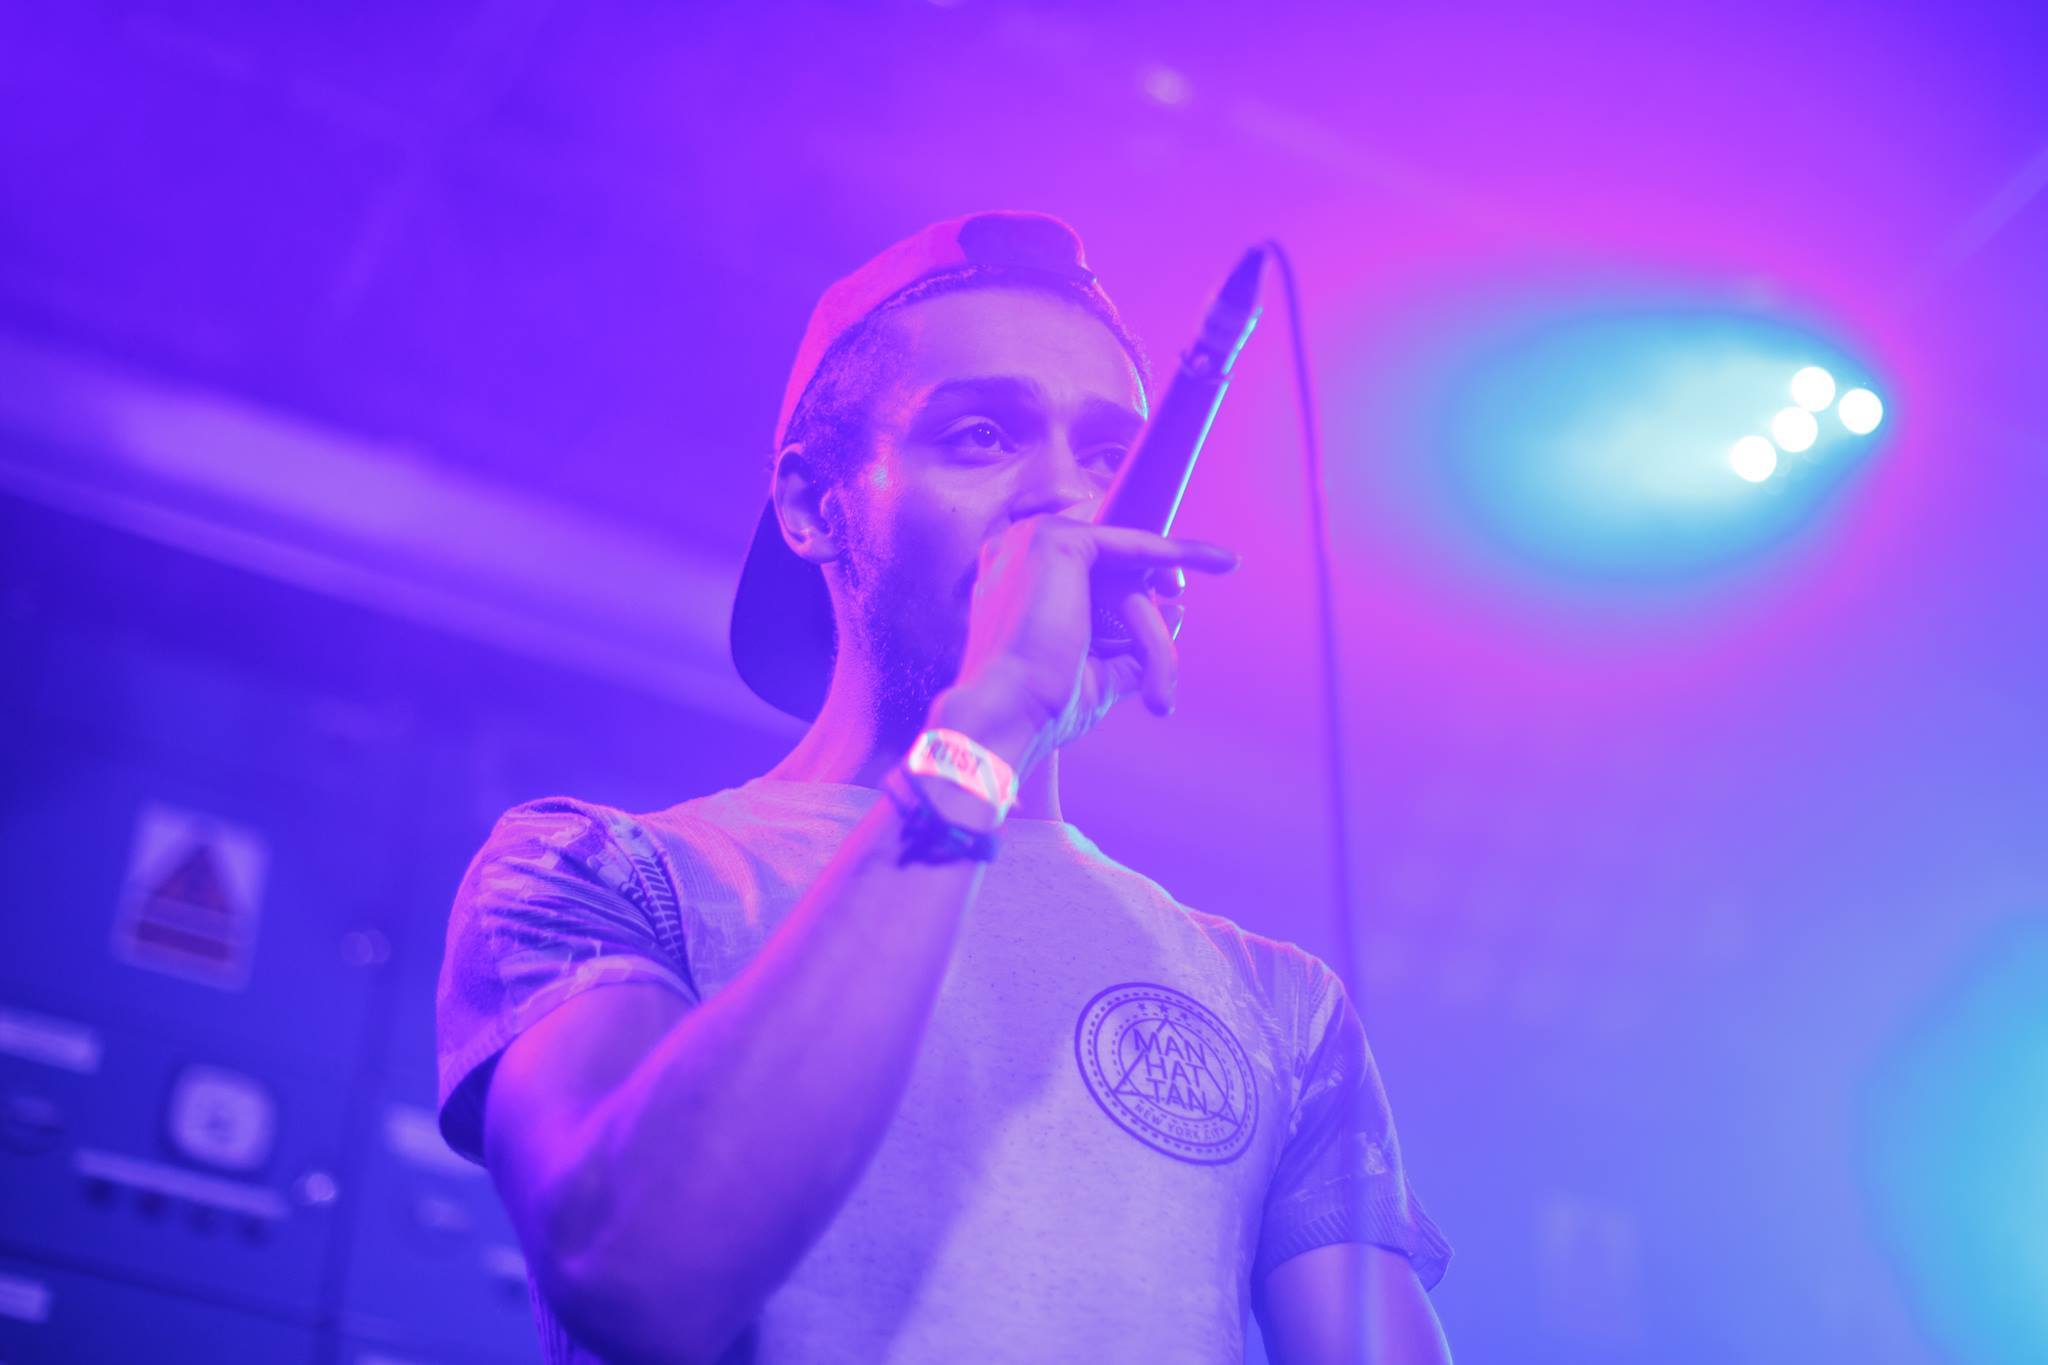
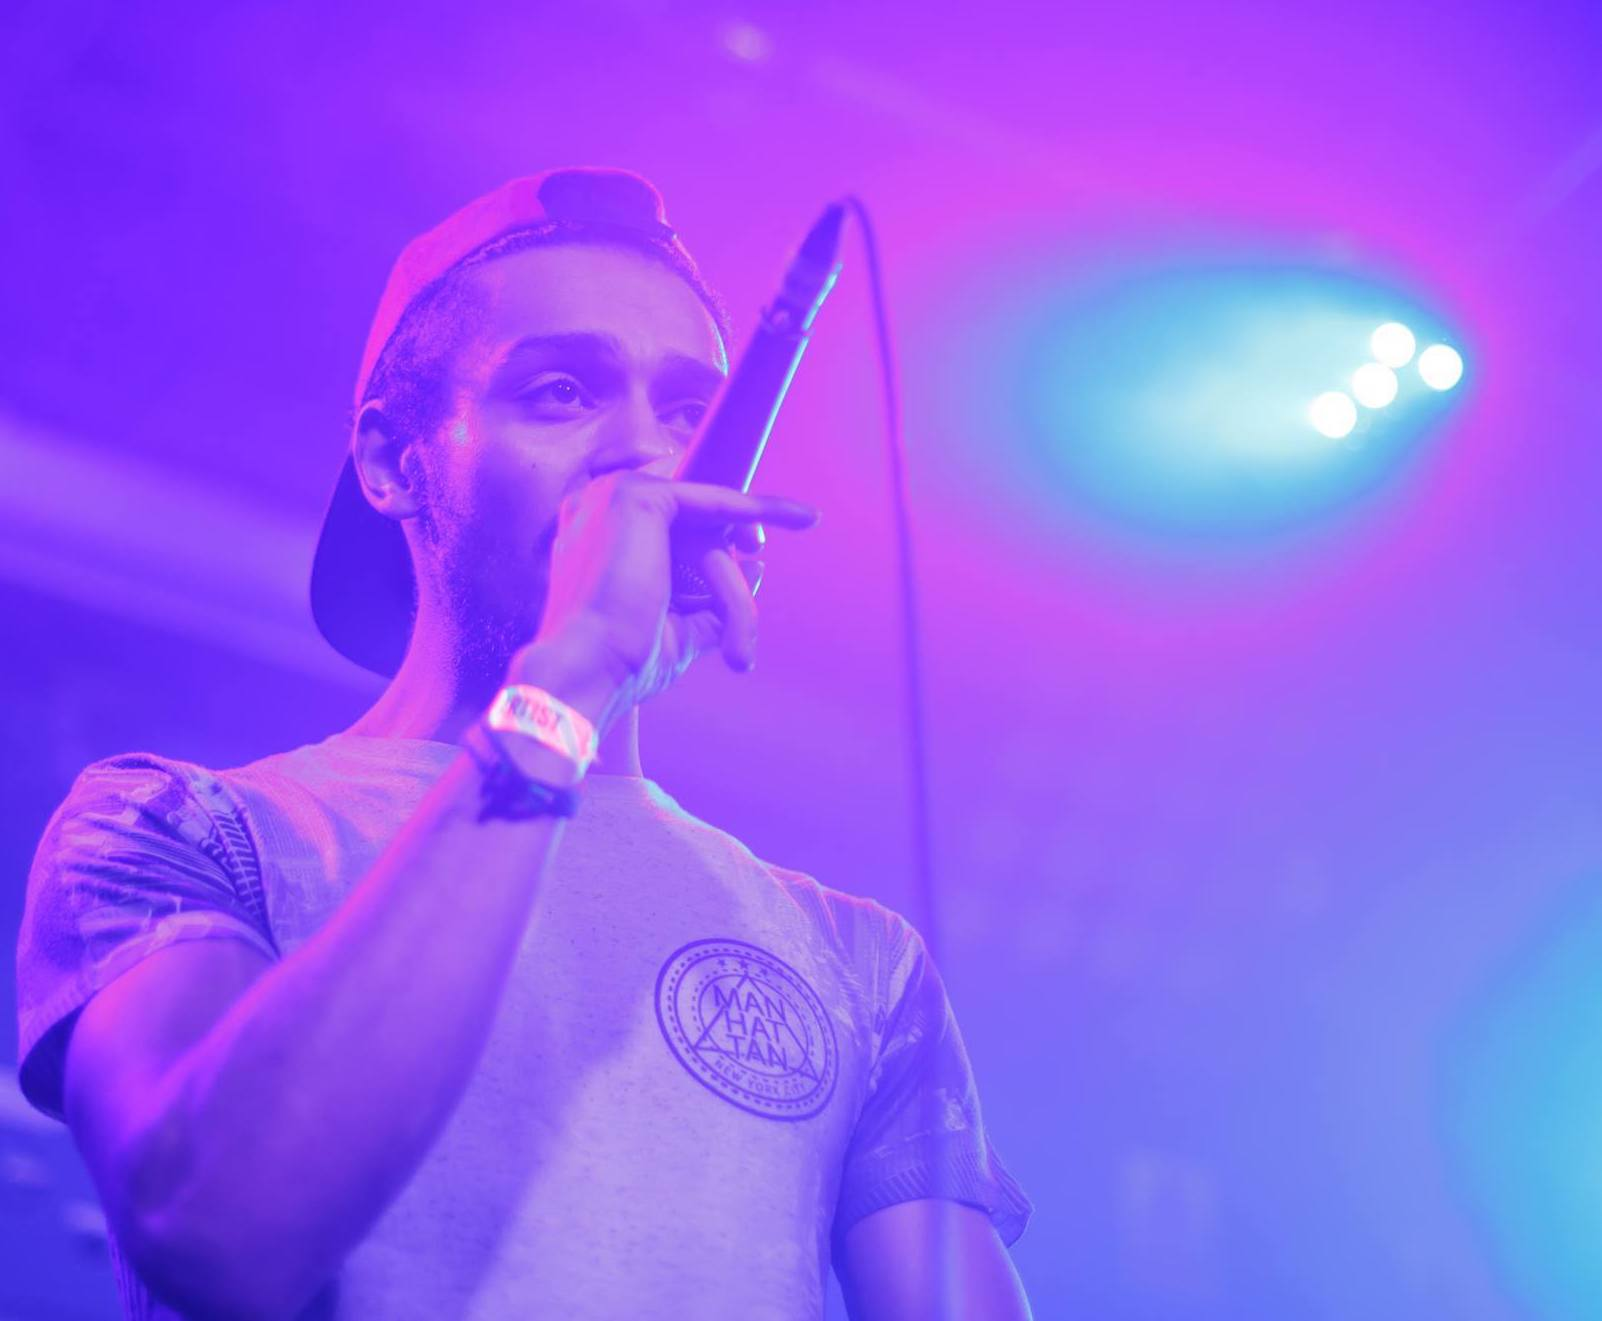
feat add images to gallery and begin buttons

diff --git a/index.html b/index.html
@@ -329,7 +329,20 @@
         </p>
       </div>
     </section>
-    <section class="gallery" id="section-gallery"></section>
+    <section class="gallery" id="section-gallery">
+      <div class="image-container">
+        <i class="fa-solid fa-chevron-left img-nav" id="img-prev"></i>
+        <i class="fa-solid fa-chevron-right img-nav" id="img-next"></i>
+        <img src="assets/img/all-out.jpeg" alt="">
+        <img src="assets/img/mic-artist.jpeg" alt="" class="hidden">
+        <img src="assets/img/phoenixx-backcap.jpeg" alt="" class="hidden">
+        <img src="assets/img/phoenixx-in-purple.jpeg" alt="" class="hidden">
+        <img src="assets/img/phoenixx-nahda.jpeg" alt="" class="hidden">
+        <img src="assets/img/phoenixx-purple-heaven.jpeg" alt="" class="hidden">
+        <img src="assets/img/phoenixx-stage-guitar.jpeg" alt="" class="hidden">
+        <img src="assets/img/phoenixx-smile.png" alt="" class="hidden">
+      </div>
+    </section>
     <section class="connect" id="section-connect">
       <h2 id="connect-title">Want to Get in Touch?</h2>
       <div id="form">

diff --git a/assets/css/style.css b/assets/css/style.css
@@ -428,6 +428,36 @@ section {
   padding: 10px;
 }
 
+.image-container {
+  position: relative;
+  width: 100%;
+}
+
+.image-container img {
+  border-radius: 8px;
+  max-width: 90%;
+  margin-top: 8px;
+  margin-left: 5%;
+}
+
+.img-nav {
+  text-align: center;
+  width: 36px;
+  height: 36px;
+  position: absolute;
+  top: 50%;
+  vertical-align: middle;
+  color: rgba(234, 226, 158, 0.8);
+  background:rgba(0, 0, 0, 0.6);
+  padding: 6px;
+  border: 2px solid rgba(234, 226, 158, 0.7);
+  border-radius: 50%;
+  font-size: 18px;
+}
+#img-next {
+  right: 0;
+}
+
 /************************* CONNECT SECTION *************************/
 
 .connect {
